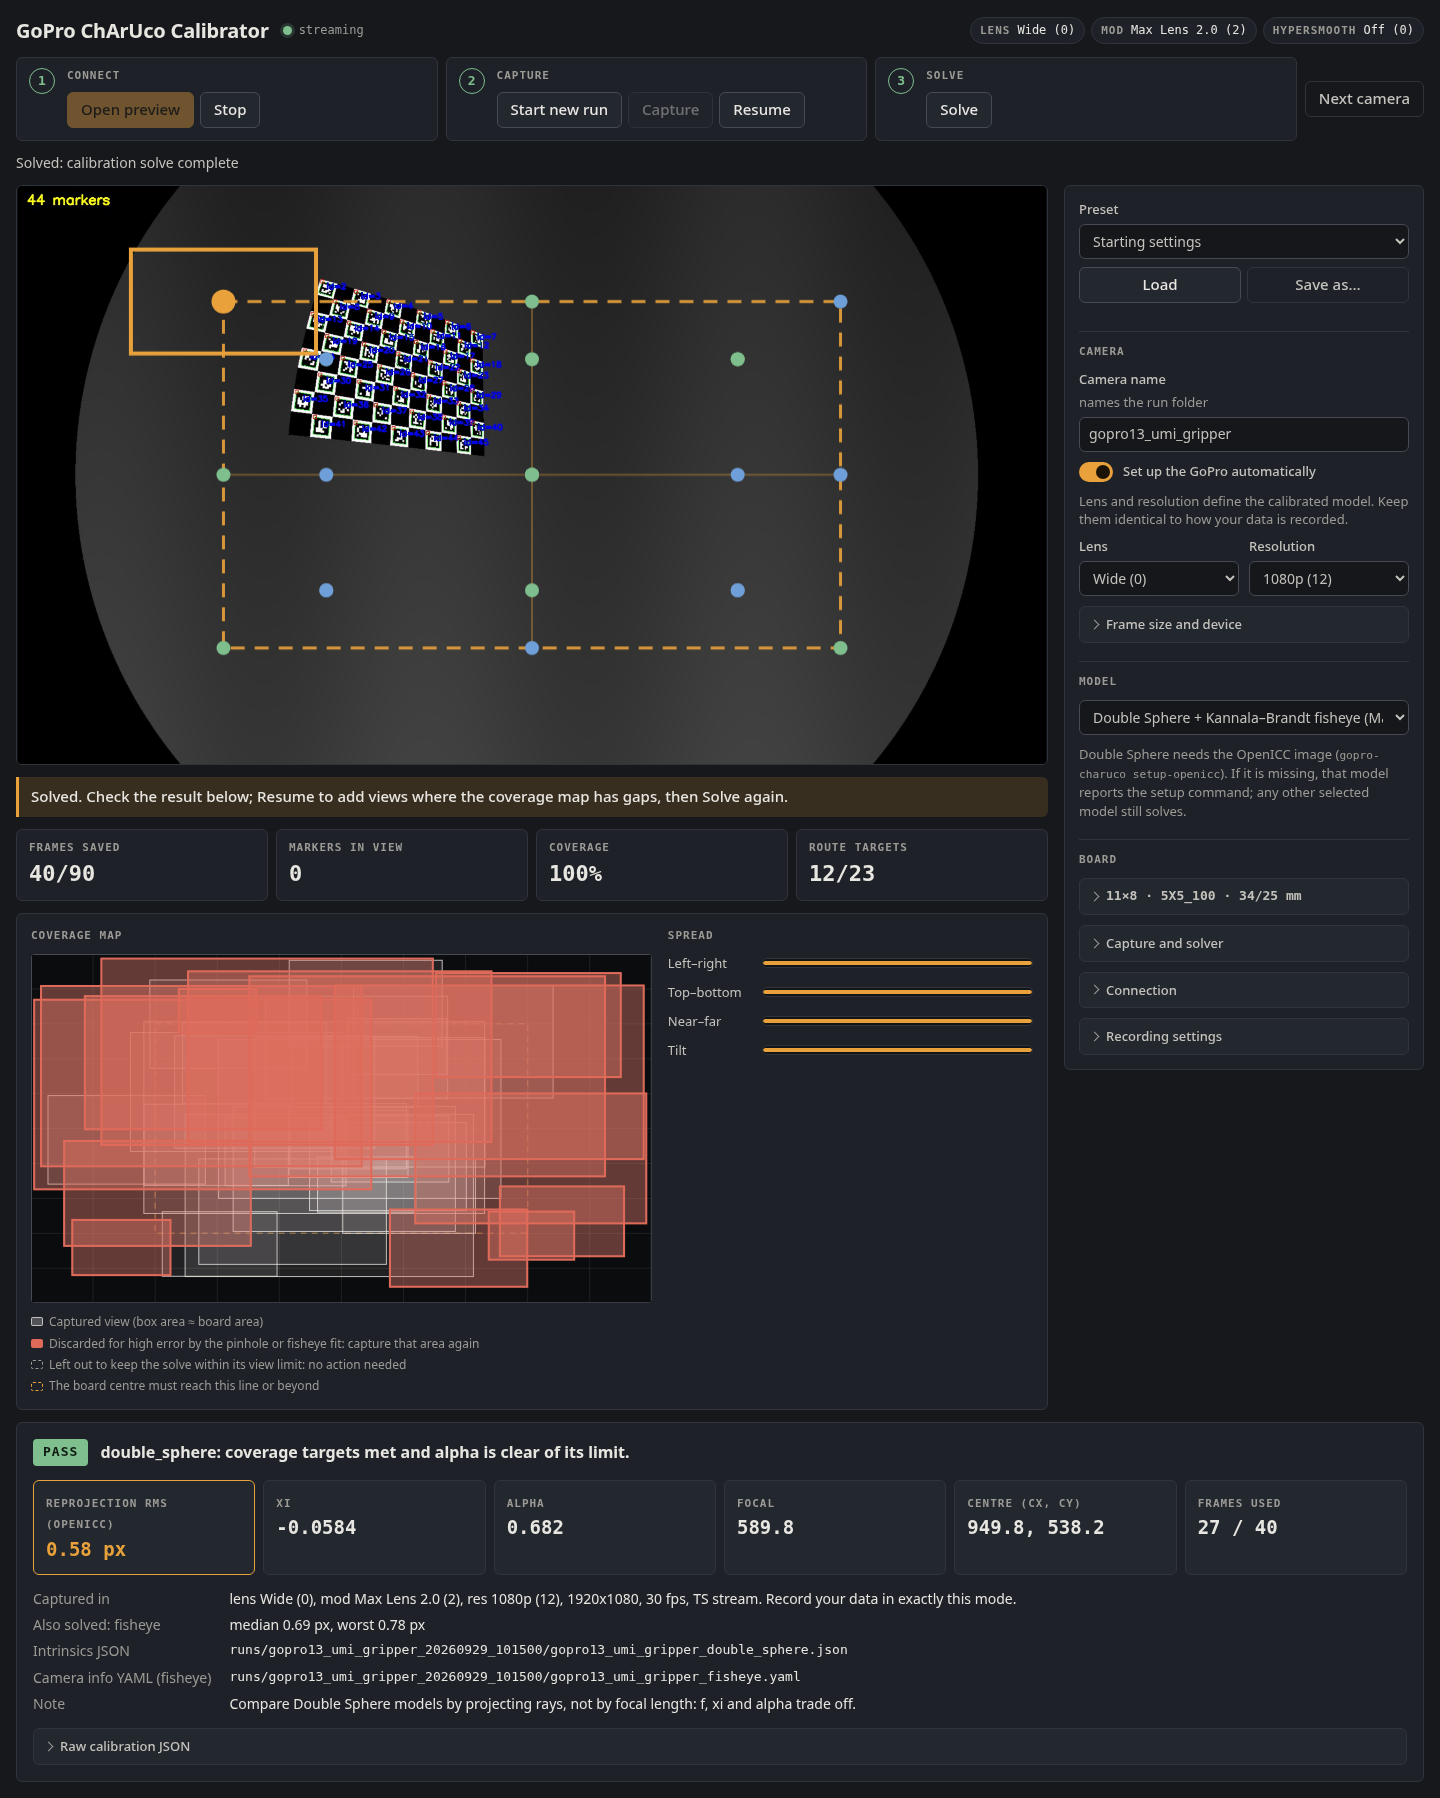
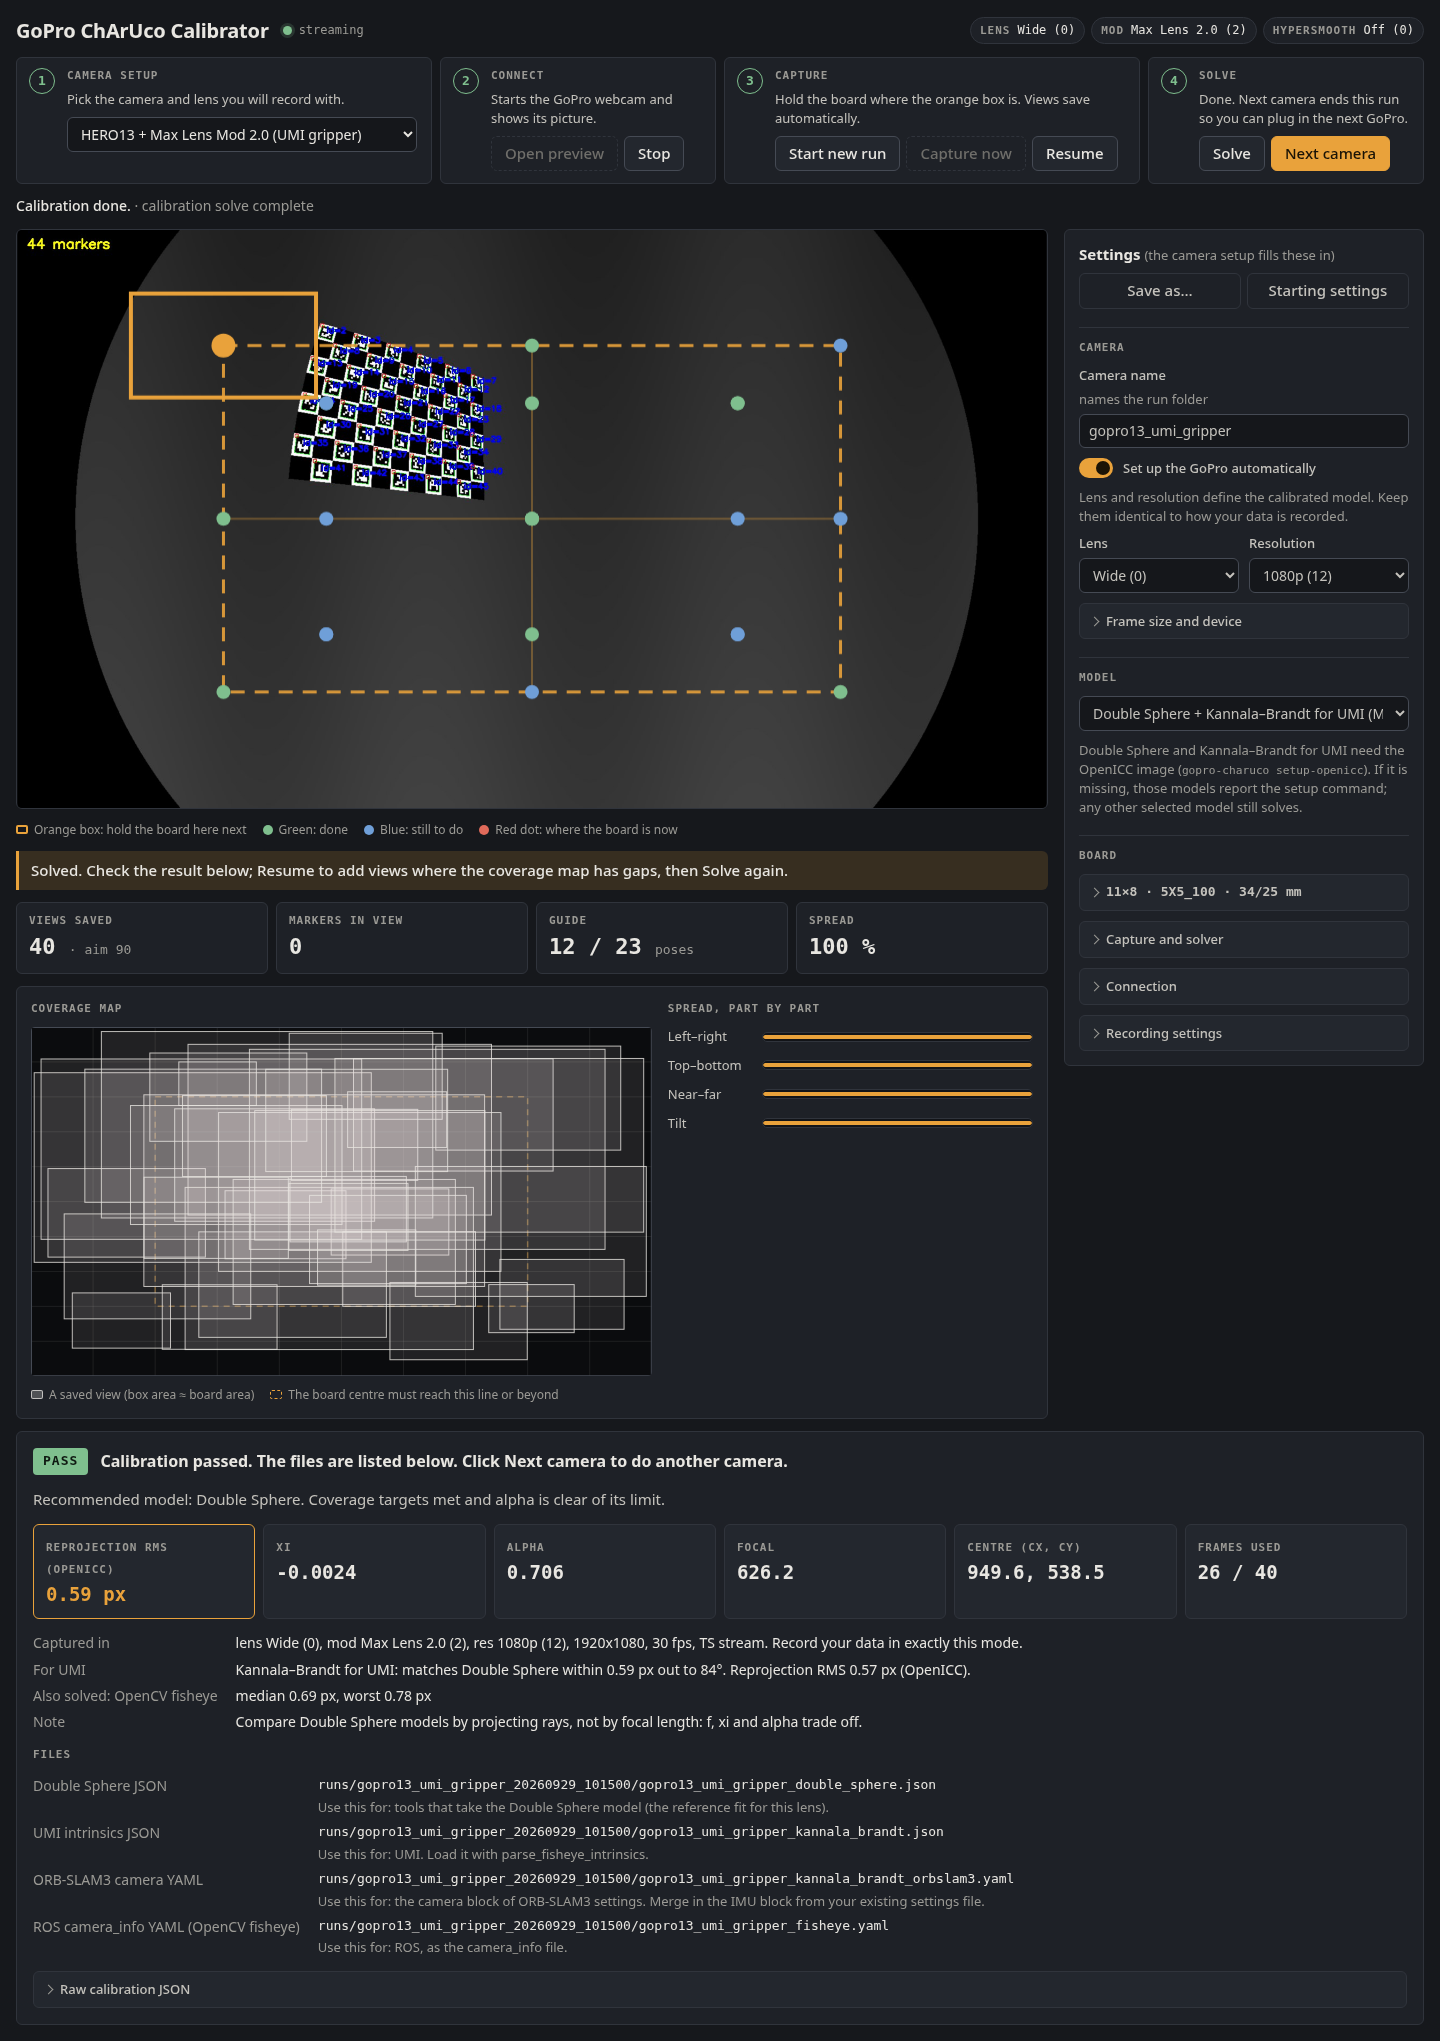
Screenshots: preview state, UMI row, review-only mobile shot, UI assertions
The solved shot uses the gripper preset's models (double_sphere,
kannala_brandt, fisheye), so it shows the Kannala-Brandt for UMI row. A
preview-state shot joins idle and capturing in --review-dir; the 390 px
shot stays as a layout check but is written only to --review-dir, and
docs/screenshot-mobile.png is removed. New checks: exactly the expected
enabled primary button per state, a title on every disabled button,
nothing drawn on the idle guide overlay, no discarded/surplus legend, and
the UMI row and file present on the solved page.

diff --git a/scripts/screenshot.py b/scripts/screenshot.py
@@ -5,16 +5,19 @@
 Only the camera is simulated. The script renders the calib.io 5X5 board as a
 HERO13 + Max Lens Mod 2.0 would see it (a Double Sphere camera with the
 intrinsics measured on 2026-06-12, black outside the lens circle), runs the
-app's own detector and solver on those frames (double_sphere needs the openicc
-image), and serves the resulting session states to the real UI through
-Playwright routes. The app itself runs unmodified in this process.
+app's own detector and solver on those frames with the gripper preset's models
+(double_sphere and kannala_brandt need the OpenICC image), and serves the
+resulting session states to the real UI through Playwright routes. The app
+itself runs unmodified in this process.
 
 It also checks layout facts a person would otherwise have to eyeball: no
 horizontal page scroll, key panels visible, no text spilling out of buttons,
-chips or figures, and no browser console errors. It exits non-zero if any fail.
+chips or figures, exactly one enabled amber (primary) button where a state has a
+next action, nothing drawn over the idle preview, no discarded or surplus boxes in
+the coverage legend, and no browser console errors. It exits non-zero if any fail.
 
-Output: docs/screenshot.png (solved, desktop) and docs/screenshot-mobile.png
-(solved, 390 px wide), plus idle/capturing review shots in --review-dir.
+Output: docs/screenshot.png (solved, desktop). The idle, preview, capturing and
+390 px mobile shots are for review only and go to --review-dir.
 """
 
 from __future__ import annotations
@@ -225,6 +228,19 @@ def build_states(config, workdir, views):
     targets = config.coverage_targets
     poses = [detection.pose for _frame, detection in views]
 
+    # Preview: the camera streams and the board is in view, no run started yet.
+    first = views[0]
+    preview = base_status(config, "preview", f"{first[1].marker_count} markers", gopro)
+    preview.update(
+        run_id=None,
+        guide=guide_status([], first[1].pose, targets),
+        markers=first[1].marker_count,
+        pose=first[1].pose.as_dict(),
+    )
+    preview_frame = draw_detection(
+        first[0], first[1], f"{first[1].marker_count} markers", selected=True
+    )
+
     # Capturing: part of the route done, the live board sitting on the next target.
     done, live = poses[:16], views[16]
     capturing = base_status(config, "capturing", "saved capture_016.jpg", gopro)
@@ -271,13 +287,17 @@ def build_states(config, workdir, views):
     solved_frame = draw_detection(
         last[0], last[1], f"{last[1].marker_count} markers", selected=True
     )
-    return {"capturing": (capturing, capturing_frame), "solved": (solved, solved_frame)}
+    return {
+        "preview": (preview, preview_frame),
+        "capturing": (capturing, capturing_frame),
+        "solved": (solved, solved_frame),
+    }
 
 
 # ---- browser ------------------------------------------------------------
 
 LAYOUT_CHECK = """
-(expect) => {
+({expect, primary, overlayEmpty, mustSay}) => {
   const problems = [];
   const vw = document.documentElement.clientWidth;
   if (document.documentElement.scrollWidth > vw + 1) {
@@ -308,12 +328,40 @@ LAYOUT_CHECK = """
   if (expect.includes("#preview") && !(img.complete && img.naturalWidth > 0)) {
     problems.push("preview image not loaded");
   }
+  // One obvious next action: the enabled amber buttons are exactly the expected one.
+  const shown = (el) => el.offsetParent && el.getBoundingClientRect().width > 0;
+  const primaries = [...document.querySelectorAll(".btn-primary")]
+    .filter((el) => shown(el) && !el.disabled)
+    .map((el) => `#${el.id}`);
+  const want = primary ? [primary] : [];
+  if (JSON.stringify(primaries) !== JSON.stringify(want)) {
+    problems.push(`primary buttons ${JSON.stringify(primaries)}, expected ${JSON.stringify(want)}`);
+  }
+  for (const el of document.querySelectorAll(".btn:disabled")) {
+    if (shown(el) && !el.title) problems.push(`disabled #${el.id} does not say why`);
+  }
+  if (overlayEmpty) {
+    const canvas = document.getElementById("guideOverlay");
+    const data = canvas.getContext("2d").getImageData(0, 0, canvas.width, canvas.height).data;
+    let drawn = 0;
+    for (let i = 3; i < data.length; i += 4) drawn += data[i] > 0;
+    if (drawn) problems.push(`guide overlay draws ${drawn} pixels over the idle preview`);
+  }
+  const legend = document.querySelector(".coverage .legend").textContent;
+  const oldSwatch = document.querySelector(".swatch-error, .swatch-surplus");
+  if (oldSwatch || /discard|left out/i.test(legend)) {
+    problems.push("coverage legend still lists discarded or surplus views");
+  }
+  const body = document.body.innerText;
+  for (const text of mustSay) {
+    if (!body.includes(text)) problems.push(`missing text: "${text}"`);
+  }
   return problems;
 }
 """
 
 
-def shoot(browser, base_url, status, jpeg, path, viewport, expect, text_path=None):
+def shoot(browser, base_url, status, jpeg, path, viewport, checks, text_path=None):
     errors = []
     page = browser.new_page(viewport=viewport, device_scale_factor=1)
     page.on("console", lambda msg: errors.append(msg.text) if msg.type == "error" else None)
@@ -336,7 +384,7 @@ def shoot(browser, base_url, status, jpeg, path, viewport, expect, text_path=Non
     if status is not None:
         page.evaluate("() => updateStatus(lastStatus)")  # redraw once the image has decoded
         page.wait_for_timeout(200)
-    problems = page.evaluate(LAYOUT_CHECK, expect) + [f"console: {e}" for e in errors]
+    problems = page.evaluate(LAYOUT_CHECK, checks) + [f"console: {e}" for e in errors]
     page.screenshot(path=str(path), full_page=True)
     if text_path is not None:
         steps = page.evaluate(
@@ -390,49 +438,75 @@ def main() -> int:
     base_url = f"http://127.0.0.1:{port}/"
 
     common = [".steps", "#scatter", ".setup", ".previewWrap"]
+    desktop = {"width": 1440, "height": 900}
+    solved_texts = ["Kannala–Brandt for UMI: matches Double Sphere", "UMI intrinsics JSON"]
+
+    def checks(expect, primary, overlay_empty=False, texts=()):
+        return {
+            "expect": common + expect,
+            "primary": primary,
+            "overlayEmpty": overlay_empty,
+            "mustSay": list(texts),
+        }
+
+    review = args.review_dir
     shots = [
         (
             "idle",
             None,
             b"",
-            args.review_dir / "idle.png",
-            {"width": 1440, "height": 900},
-            common + ["#previewEmpty"],
+            review / "idle.png",
+            desktop,
+            checks(["#previewEmpty"], "#previewBtn", overlay_empty=True),
+        ),
+        (
+            "preview",
+            *states["preview"],
+            review / "preview.png",
+            desktop,
+            checks(["#preview", "#cameraReadout .chip", "#guideLegend"], "#startRunBtn"),
         ),
         (
             "capturing",
             *states["capturing"],
-            args.review_dir / "capturing.png",
-            {"width": 1440, "height": 900},
-            common + ["#preview", "#cameraReadout .chip"],
+            review / "capturing.png",
+            desktop,
+            checks(["#preview", "#cameraReadout .chip", "#guideLegend"], None),
         ),
         (
             "solved",
             *states["solved"],
             args.out_dir / "screenshot.png",
-            {"width": 1440, "height": 900},
-            common + ["#preview", "#cameraReadout .chip", "#resultsPanel", ".figure"],
+            desktop,
+            checks(
+                ["#preview", "#cameraReadout .chip", "#resultsPanel", ".figure"],
+                "#nextCameraBtn",
+                texts=solved_texts,
+            ),
         ),
         (
+            # Layout check only: the page must still work at phone width.
             "solved-mobile",
             *states["solved"],
-            args.out_dir / "screenshot-mobile.png",
+            review / "solved-mobile.png",
             {"width": 390, "height": 844},
-            common + ["#preview", "#resultsPanel"],
+            checks(["#preview", "#resultsPanel"], "#nextCameraBtn", texts=solved_texts),
         ),
     ]
     failures = 0
     launch = {"executable_path": shutil.which("chromium")} if shutil.which("chromium") else {}
     with sync_playwright() as pw:
         browser = pw.chromium.launch(**launch)
-        for name, status, frame, path, viewport, expect in shots:
+        for name, status, frame, path, viewport, shot_checks in shots:
             jpeg = (
                 cv2.imencode(".jpg", frame, [cv2.IMWRITE_JPEG_QUALITY, 88])[1].tobytes()
                 if len(frame)
                 else b""
             )
             text_path = args.review_dir / f"{name}.txt"
-            problems = shoot(browser, base_url, status, jpeg, path, viewport, expect, text_path)
+            problems = shoot(
+                browser, base_url, status, jpeg, path, viewport, shot_checks, text_path
+            )
             print(f"{name}: {path}  {'ok' if not problems else 'PROBLEMS'}")
             for problem in problems:
                 print(f"  - {problem}")
